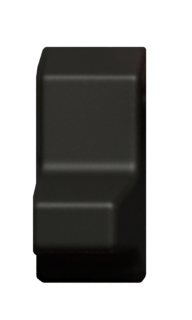
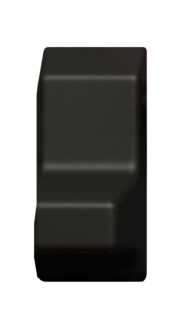
fix(panel): drawbar cap proportions from the owner's panel photos
Tall rear block (0.90 u, about the cap width) with a front sloping onto a
short nose (0.42 u) that slopes down to the player side; no separate base
band. Top-down silhouette IoU 0.96 / 0.92.

Changed region(s): [[0.1562, 0.125, 0.25, 0.875], [0.75, 0.1562, 0.7812, 0.875], [0.2188, 0.875, 0.75, 0.9062]]

diff --git a/assets/blender/parts_cap.py b/assets/blender/parts_cap.py
@@ -16,16 +16,16 @@ from proof_geom import box, loft
 # reference (100 x 231 px = 0.78 x 1.79 u at the base). Black and white caps share this geometry.
 CAP_W = 0.80
 CAP_BACK, CAP_FRONT = 0.90, -0.89
-CAP_HT, CAP_HN = 0.50, 0.26  # ASSUMED heights (photo ratio about 2 : 1)
-BLOCK_FRONT = -0.18  # base of the block's sloped front face
+CAP_HT, CAP_HN = 0.90, 0.42  # EMPIRICAL: owner photo of the panel, block about as tall as
+# the cap is wide, nose about half of that
+BLOCK_FRONT = -0.32  # EMPIRICAL (close-up photo): the block front slopes forward onto the nose
 BLOCK_TOP_FRONT = 0.02  # top edge of that face
-NOSE_TOP_FRONT = -0.62  # front edge of the nose top
+NOSE_TOP_FRONT = -0.58  # front edge of the short nose top, then the sloped nose front
 # EMPIRICAL (reference, every drawbar): the nose top face spans this, left of centre; its
 # right wall slopes down to the full-width base
 NOSE_TOP_X = (-0.43, 0.12)
 NOSE_LEFT = -0.45  # EMPIRICAL: the nose base sticks out left of the block (silhouette fit)
-# EMPIRICAL: low base band in front of the nose; kept above CAP_BEVEL so it rounds evenly
-BASE_H = 0.14
+NOSE_FRONT_H = 0.12  # EMPIRICAL (photos): the nose front slopes down low toward the player
 CAP_TAPER = 0.12  # EMPIRICAL: block top is about 0.88 of its base width (photo, front view)
 CAP_BEVEL = 0.12  # EMPIRICAL: reference cap corners read about 8 px rounded at 2x
 CAP_LIFT = 0.03  # cap floats above the plate so the slot shows under it
@@ -56,11 +56,11 @@ def _section(y, z, top_x, left=-CAP_W / 2):
 
 def fader_cap(m, key):
     """Drawbar cap, one loft from back to front over a full-width base: tall rear block with
-    tapered sides and a sloped front, then the lower nose whose top face is narrower and to
-    the left because its right wall slopes steeply (reference and photos)."""
+    tapered sides and a sloped front, then the lower nose (about half the height) whose top
+    face sits left because its right wall slopes, ending in a chamfer (reference, photos)."""
     ht, hn = CAP_HT, CAP_HN
     blk = (-CAP_W / 2 * (1 - CAP_TAPER), CAP_W / 2 * (1 - CAP_TAPER))
-    side = CAP_W / 2 * (1 - CAP_TAPER * BASE_H / CAP_HT)  # same wall slope as the block
+    side = CAP_W / 2 * (1 - CAP_TAPER * NOSE_FRONT_H / CAP_HT)  # same wall slope as the block
     base = (-side, side)
     secs = [
         (CAP_BACK, ht * 0.86, blk),
@@ -68,8 +68,7 @@ def fader_cap(m, key):
         (BLOCK_TOP_FRONT, ht, blk),
         (BLOCK_FRONT, hn, NOSE_TOP_X, NOSE_LEFT),
         (NOSE_TOP_FRONT, hn, NOSE_TOP_X, NOSE_LEFT),
-        (NOSE_TOP_FRONT - 0.05, BASE_H, base, NOSE_LEFT),  # nose front drops onto the base
-        (CAP_FRONT, BASE_H, base, NOSE_LEFT),
+        (CAP_FRONT, NOSE_FRONT_H, base, NOSE_LEFT),  # chamfered front, no separate band
     ]
     rings = [_section(y, z, tx, *lx) for y, z, tx, *lx in secs]
     return [loft("cap_body", rings, m[key], smooth=False, bevel=CAP_BEVEL, segments=8)]

diff --git a/tools/panel_assets.py b/tools/panel_assets.py
@@ -59,7 +59,7 @@ LEAN = {
     "plate": (0.0, 0.0),
     # EMPIRICAL: per cap, from where it sits on the reference; the optical axis is about
     # 290 px above the image centre (DRIVE knob lean), tuned against the cap silhouettes.
-    "drawbar_cap_black": (2.56, 5.2),
+    "drawbar_cap_black": (1.2, 5.2),
     "drawbar_cap_white": (0.2, 5.5),
     "layer_cap_grey": (5.29, -0.45),
 }

diff --git a/docs/research/panel-blender-proof.md b/docs/research/panel-blender-proof.md
@@ -65,7 +65,7 @@ MAD (mean absolute difference, 0..255) compares ours with the same reference are
 
 Sizes with the full style set: the proof set is 824 KB (1x) / 2.76 MB (2x) PNG. The full-panel estimate assumes 6 knob styles and 15 button styles, each button getting two more states later: 2.16 MB / 6.64 MB PNG, and 15.5 MB / 62.1 MB RGBA in GPU memory. The private comparison sheet is `.reference/panel-compare-v5.png`.
 
-Owner review of v4 (2026-11-13): the Blender drawbar and layer caps did not match, the DRIVE knob looked flat with a light red rim, and its "6" was clipped. Fixes: the caps are now cut from the reference with their own shadow layers. The knob edge colours are taken from the cap interior instead of the red plate. Second review: the plate grain was too soft (patch blending and the whole-tile cross-fade averaged two textures), so the tiles are now quilted on a torus with narrow overlaps. The caps showed a light halo, LED glow and label ticks; they now use a colour matte on the edge (alpha from the position between the local cap and plate colours), the LED glow is recoloured from the clean cap, the top block sides are straightened, and the shadow layer leaves out the edge pixels next to the cap. The button crops are inset 1 px. Third review: light bits at the white cap corners came from the silver label next to the cap unmixing as cap; bluish pixels outside the cap are now always transparent. The plate behind the caps (`plate_slate_slot`) was still the Blender slate; `pack` now keeps only the Blender slot and fills the plate with the reference slate tile shifted to the darker slate of the drawbar area (47, 57, 68), so that plate is now reference-derived (D17). Sixth review (real parts): with the owner's photos of the real drawbar and layer-fader caps, the black and white drawbar caps are one shared part rendered with the same camera (`LEAN["drawbar"]`) and the calibrated materials, not two shapes fitted per instance with the reference projected on them. The drawbar cap is one loft over a full-width base: a rear block whose sides taper to 0.88 of the base, a sloped front, a lower nose whose top face sits left of centre because its right wall slopes down steeply (as on every drawbar of the reference), and a low full-width base band in front of the nose. The layer cap is a rounded frustum. The projection step below is kept in the tools but no longer used by the caps.
+Owner review of v4 (2026-11-13): the Blender drawbar and layer caps did not match, the DRIVE knob looked flat with a light red rim, and its "6" was clipped. Fixes: the caps are now cut from the reference with their own shadow layers. The knob edge colours are taken from the cap interior instead of the red plate. Second review: the plate grain was too soft (patch blending and the whole-tile cross-fade averaged two textures), so the tiles are now quilted on a torus with narrow overlaps. The caps showed a light halo, LED glow and label ticks; they now use a colour matte on the edge (alpha from the position between the local cap and plate colours), the LED glow is recoloured from the clean cap, the top block sides are straightened, and the shadow layer leaves out the edge pixels next to the cap. The button crops are inset 1 px. Third review: light bits at the white cap corners came from the silver label next to the cap unmixing as cap; bluish pixels outside the cap are now always transparent. The plate behind the caps (`plate_slate_slot`) was still the Blender slate; `pack` now keeps only the Blender slot and fills the plate with the reference slate tile shifted to the darker slate of the drawbar area (47, 57, 68), so that plate is now reference-derived (D17). Seventh review (proportions from the owner's panel photos): rendered from the side, the cap was far too low. Now the rear block is 0.90 u tall (about the cap width) with its front sloping forward onto a short nose 0.42 u tall, whose front slopes down to 0.12 u at the player side; no separate base band. Top-down silhouette IoU stays 0.96 (black) and 0.92 (white). Sixth review (real parts): with the owner's photos of the real drawbar and layer-fader caps, the black and white drawbar caps are one shared part rendered with the same camera (`LEAN["drawbar"]`) and the calibrated materials, not two shapes fitted per instance with the reference projected on them. The drawbar cap is one loft over a full-width base: a rear block whose sides taper to 0.88 of the base, a sloped front, a lower nose whose top face sits left of centre because its right wall slopes down steeply (as on every drawbar of the reference), and a low full-width base band in front of the nose. The layer cap is a rounded frustum. The projection step below is kept in the tools but no longer used by the caps.
 
 Fifth review (cutouts replaced by 3D): the owner asked for real rendered borders. The caps are now Blender geometry (`parts_cap.py`) rendered with a camera at each cap's own lean (`panel_assets.LEAN`). The material is unlit and shows the reference crop through window (screen) coordinates, so the crop is projected onto the geometry from that camera (`proof_materials.projected`). The crop comes from `tools/panel_refcaps.projection_texture`, with the plate around the cap filled with cap colour. The silhouette and its anti-aliased edge therefore come from the geometry, and the colour from the reference. The geometry was fitted to the reference silhouettes: cap width 0.85 u, lower body full width from under the top block to the front, layer cap 0.69 x 0.585 u, and per-cap centre and lean. Silhouette IoU (rendered alpha vs reference cap mask, 2x): black 0.94, white 0.94, grey layer 0.90. The shadows are 3D shadow-catcher renders from the same geometry. The previous 2D cut-out steps described next were superseded for the caps.
 
